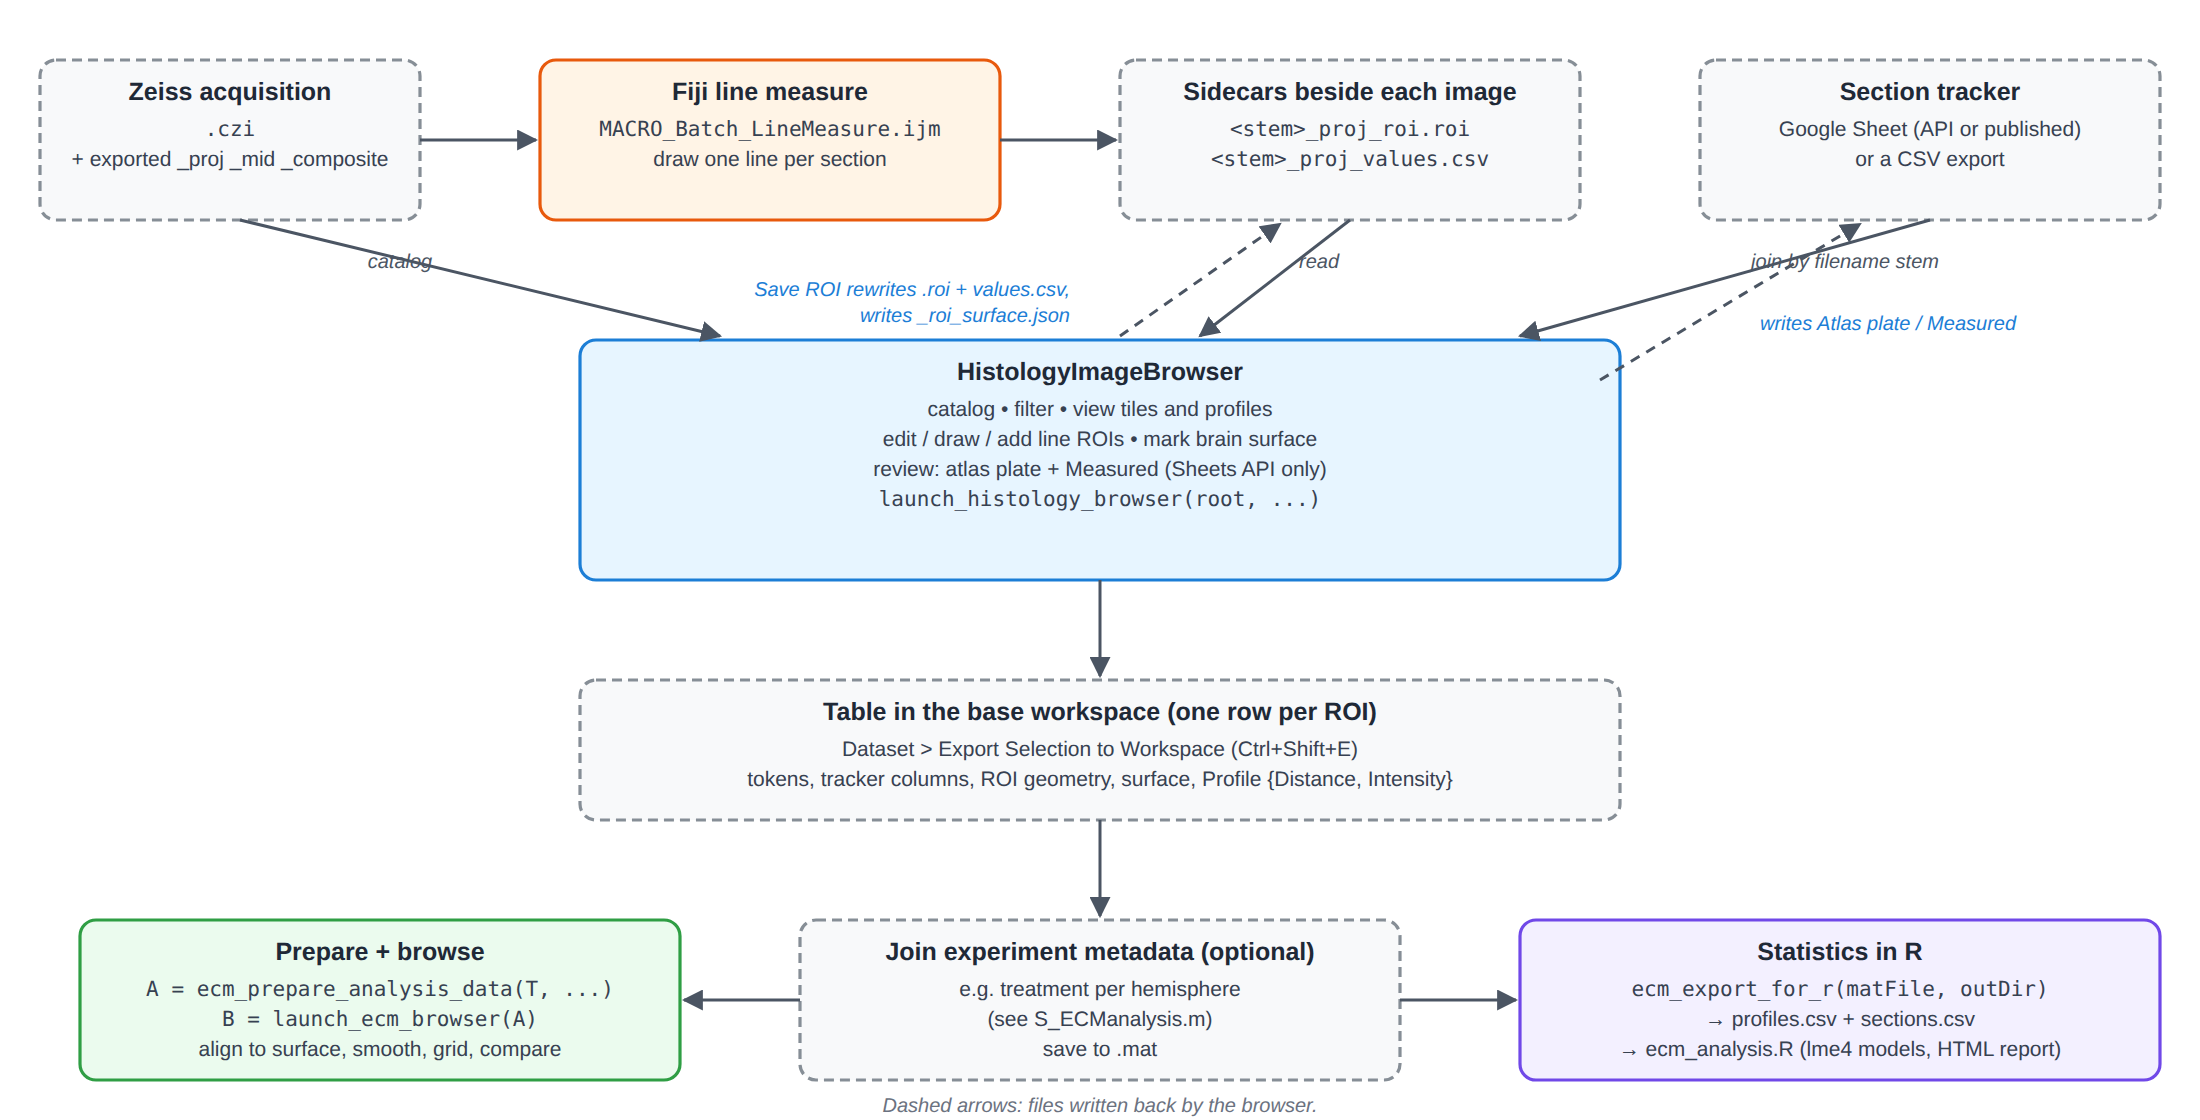
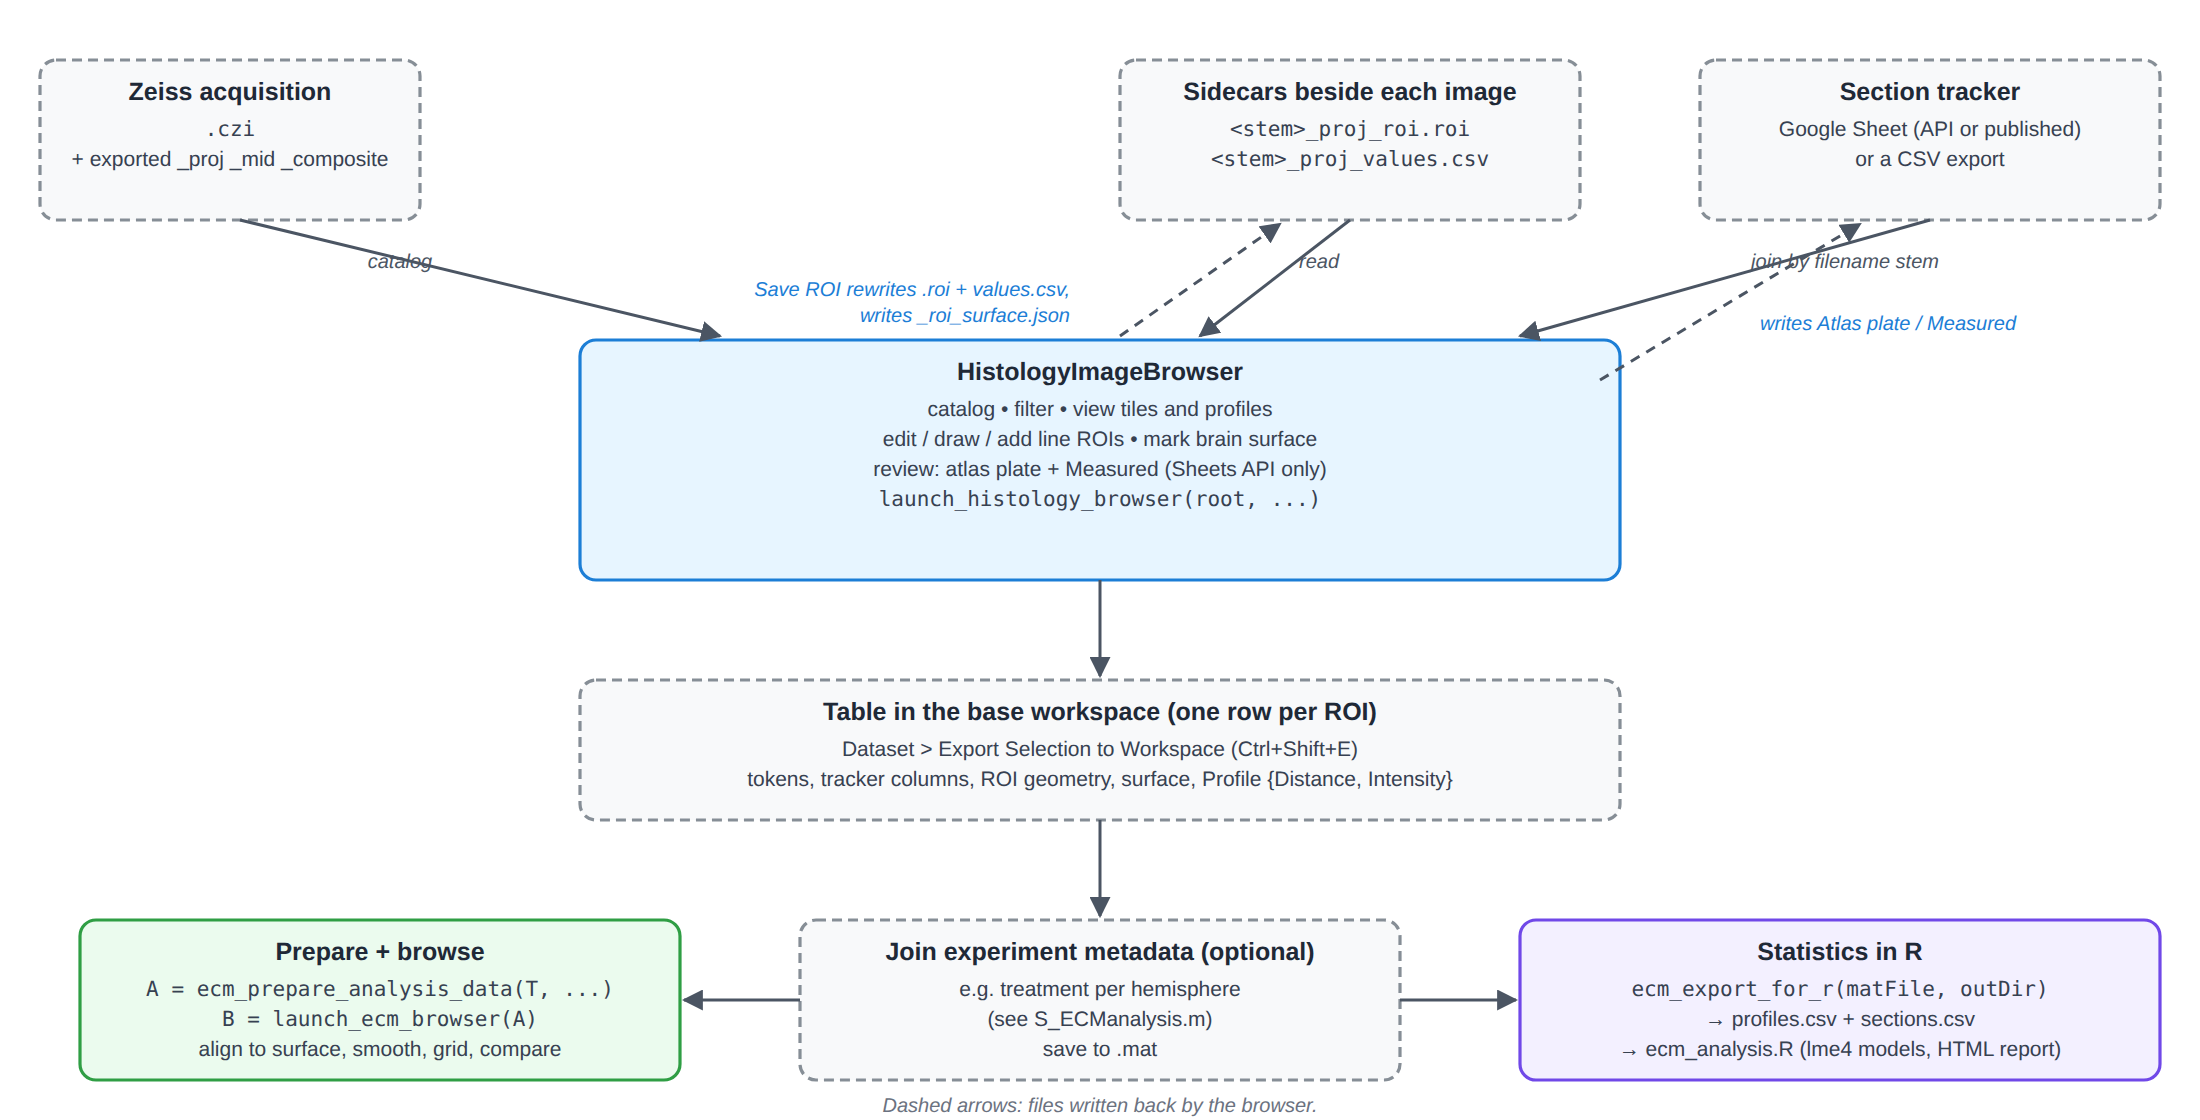
Remove Fiji macro preprocessing from the wiki
Drop the MACRO_Batch_LineMeasure.ijm section, recipe steps, requirement
row and toolbox entry, the runImageJMacro docs, and the Fiji box in the
pipeline diagram. Line ROIs are now described as drawn in the browser.

Claude-Session: https://claude.ai/code/session_014p3gpCibtE2v8YAGh1YsFA

Changed region(s): [[0.2164, 0.0312, 0.4636, 0.2188]]

diff --git a/docs/wiki/images/src/pipeline.js b/docs/wiki/images/src/pipeline.js
@@ -5,7 +5,7 @@ const W = 1100, H = 560;
 out.push(`<svg xmlns="http://www.w3.org/2000/svg" viewBox="0 0 ${W} ${H}" width="${W}" height="${H}" font-family="Segoe UI, Helvetica, Arial, sans-serif">`);
 out.push(`<defs><marker id="a" viewBox="0 0 10 10" refX="9" refY="5" markerWidth="7" markerHeight="7" orient="auto"><path d="M0 0 L10 5 L0 10 z" fill="#4b5563"/></marker></defs>`);
 out.push(`<rect width="${W}" height="${H}" fill="#ffffff"/>`);
-const pal = { fiji: ['#fff4e6', '#e8590c'], browser: ['#e7f5ff', '#1c7ed6'], ecm: ['#ebfbee', '#2f9e44'], data: ['#f8f9fa', '#868e96'], r: ['#f3f0ff', '#7048e8'] };
+const pal = { browser: ['#e7f5ff', '#1c7ed6'], ecm: ['#ebfbee', '#2f9e44'], data: ['#f8f9fa', '#868e96'], r: ['#f3f0ff', '#7048e8'] };
 const box = (x, y, w, h, kind, title, lines) => {
   const [f, s] = pal[kind];
   out.push(`<rect x="${x}" y="${y}" width="${w}" height="${h}" rx="8" fill="${f}" stroke="${s}" stroke-width="1.6"${kind === 'data' ? ' stroke-dasharray="5 3"' : ''}/>`);
@@ -18,10 +18,8 @@ const arrow = (x1, y1, x2, y2, label, o = {}) => {
 };
 // Row 1
 box(20, 30, 190, 80, 'data', 'Zeiss acquisition', ['`.czi`', '+ exported `_proj` `_mid` `_composite`']);
-box(270, 30, 230, 80, 'fiji', 'Fiji line measure', ['`MACRO_Batch_LineMeasure.ijm`', 'draw one line per section']);
 box(560, 30, 230, 80, 'data', 'Sidecars beside each image', ['`<stem>_proj_roi.roi`', '`<stem>_proj_values.csv`']);
 box(850, 30, 230, 80, 'data', 'Section tracker', ['Google Sheet (API or published)', 'or a CSV export']);
-arrow(210, 70, 268, 70); arrow(500, 70, 558, 70);
 // Row 2 browser
 box(290, 170, 520, 120, 'browser', 'HistologyImageBrowser', ['catalog • filter • view tiles and profiles', 'edit / draw / add line ROIs • mark brain surface', 'review: atlas plate + Measured (Sheets API only)', '`launch_histology_browser(root, ...)`']);
 arrow(675, 110, 600, 168, 'read', { dx: 22 });

diff --git a/docs/wiki/Data-Layout-and-File-Formats.md b/docs/wiki/Data-Layout-and-File-Formats.md
@@ -13,8 +13,8 @@ For each acquisition, the browser recognizes:
 | `<stem>_proj.tif` | your export | Projection. This is the default rendition and the one profiles are measured from. |
 | `<stem>_mid.tif` | your export | Mid-plane rendition (optional). |
 | `<stem>_composite.png` | your export | Composite rendition (optional). |
-| `<stem>_proj_roi.roi` | Fiji macro or browser | The line ROI, in ImageJ's binary `.roi` format. |
-| `<stem>_proj_values.csv` | Fiji macro or browser | The intensity profile measured along that line. |
+| `<stem>_proj_roi.roi` | browser | The line ROI, in ImageJ's binary `.roi` format. |
+| `<stem>_proj_values.csv` | browser | The intensity profile measured along that line. |
 | `<stem>_proj_roi_surface.json` | browser | Where the brain surface sits on that line (optional). |
 
 Any of the three exported renditions can be `.tif`, `.tiff` or `.png`; the scan looks for all
@@ -80,8 +80,7 @@ tokens become catalog columns: `SubjectID`, `SampleID`, `SectionID`, `Hemisphere
 previewed, but not cataloged.
 
 The `_proj`, `_mid`, `_composite`, `_roi` and `_values` suffixes are stripped before your pattern
-runs, and you can't change them. The Fiji macro writes them, and rendition discovery depends on
-them.
+runs, and you can't change them. Rendition discovery depends on them.
 
 From a script:
 
@@ -105,10 +104,9 @@ tied together by a label in their filenames:
   unchanged.
 - **Keys are letters.** To give them meaningful names (A = `ACx`, B = `S1`), use **Name ROIs...**
   in the browser. Names are stored as a MATLAB preference, so no file is renamed.
-- **Mismatched macro names are paired automatically.** When the macro runs with a region-specific
-  suffix, it writes `_proj_roi.roi` beside `_proj_ACxvalues.csv`. An unlabelled `.roi` that has
-  no profile of its own is paired with a profile that has no `.roi` of its own. So that section
-  reads as one ROI keyed `ACx`.
+- **Mismatched names are paired automatically.** An unlabelled `.roi` that has no profile of its
+  own is paired with a profile that has no `.roi` of its own. So `_proj_roi.roi` beside
+  `_proj_ACxvalues.csv` reads as one ROI keyed `ACx`.
 
 ## `*values.csv`: the profile
 
@@ -118,9 +116,8 @@ distance_pixel_index,intensity
 ...
 ```
 
-This is one row per sample along the line. In files written by the Fiji macro, the first column
-is in **calibrated units** (µm) when the image is calibrated, despite its name.
-The browser's `write_values_csv` writes the same header.
+This is one row per sample along the line. The first column is in **calibrated units** (µm) when
+the image is calibrated, despite its name. The browser's `write_values_csv` writes this header.
 
 ## `*_roi_surface.json`: the brain surface mark
 
@@ -143,34 +140,6 @@ This file is written by the browser when you **Save ROI** with a surface mark on
 - Clearing a mark **deletes** the file rather than writing an empty one.
 
 *(The numeric values above are placeholders showing the shape of the file.)*
-
-## The Fiji macro
-
-`histology_browser/fiji/MACRO_Batch_LineMeasure.ijm` runs in Fiji, not MATLAB. Open it in Fiji
-(**Plugins > Macros > Run...**) and it will:
-
-1. **Ask for the parent directory.** Fiji remembers the last one.
-2. **Ask for the file pattern.** The default is `*_proj.tif`. Matching is recursive and
-   case-insensitive.
-3. **Ask for the line width in µm.** The default is `994`. For uncalibrated images the number is
-   used as pixels, with a warning.
-4. **Ask for the values file suffix.** The default is `_values`.
-5. **Ask whether to skip images whose values CSV already exists.**
-
-Then, for each image:
-
-1. It opens the image and selects channel 1.
-2. It asks **"Process this file?"**. Answer No to skip.
-3. It waits while you **draw a straight line** across cortex, then click **OK**.
-4. It writes `<image base>_roi.roi` and `<image base><suffix>.csv` beside the image, then closes
-   all images.
-
-Things to know:
-
-- **It writes one ROI per image.** Add further ROIs (B, C, …) in the browser with **Add ROI**.
-- **It closes every open image** (`close("*")`) after each file, including unrelated ones.
-- **It needs you at the keyboard.** It uses dialogs, so it can't run headless, and
-  `runImageJMacro` can't drive it.
 
 ## The section tracker
 

diff --git a/docs/wiki/Home.md b/docs/wiki/Home.md
@@ -10,12 +10,11 @@ ECM staining across experimental groups. R handles the statistics.
 
 | Component | What it's for | Start here |
 |---|---|---|
-| **Histology Image Browser** | Catalog every section image under a folder. Filter by subject, hemisphere, stain and atlas plate. See each section with its Fiji line ROI and intensity profile. Edit ROIs, mark the brain surface, and record review status in the section tracker. | [Histology Browser](Histology-Browser) |
+| **Histology Image Browser** | Catalog every section image under a folder. Filter by subject, hemisphere, stain and atlas plate. See each section with its line ROI and intensity profile. Edit ROIs, mark the brain surface, and record review status in the section tracker. | [Histology Browser](Histology-Browser) |
 | **Section tracker** | The browser joins your lab's section tracker (a Google Sheet or a CSV) onto the catalog. It can also write the atlas plate and "Measured" back to the tracker. | [Section Tracker](Section-Tracker) |
 | **ECM Analysis app** | Take the exported profiles and align them to the cortical surface. Then smooth, normalize, tile, filter and compare groups interactively, and export figures, data and reproducible code. | [ECM Analysis](ECM-Analysis) |
 | **R statistics** | `ecm_analysis.R` fits mixed-effects models to the exported profiles and writes an HTML report. | [ECM Analysis § Statistics in R](ECM-Analysis#statistics-in-r) |
 | **Image tools** | Standalone utilities: CZI metadata extraction, interactive rotation, overlay and threshold tools, cortex straightening, and a crop labeller. | [Image Processing Tools](Image-Processing-Tools) |
-| **Fiji macro** | `MACRO_Batch_LineMeasure.ijm` walks a folder of images. You draw a line on each section and it saves the ROI and its profile. | [Data Layout § The Fiji macro](Data-Layout-and-File-Formats#the-fiji-macro) |
 
 ## Where to go next
 
@@ -31,18 +30,16 @@ ECM staining across experimental groups. R handles the statistics.
 
 1. **Acquire and export.** Each section is imaged (Zeiss `.czi`). Projections (`_proj.tif`) and
    optional mid-plane (`_mid`) and composite (`_composite`) renditions are exported beside it.
-2. **Measure in Fiji.** Run `MACRO_Batch_LineMeasure.ijm` over the folder. On each image you draw
-   one line across cortex. It writes `<image>_roi.roi` and `<image>_values.csv` next to the image.
-3. **Review in MATLAB.** `launch_histology_browser("D:/MyHistology/", ...)` catalogs everything
-   and joins it with the section tracker. Here you can:
+2. **Measure and review in MATLAB.** `launch_histology_browser("D:/MyHistology/", ...)` catalogs
+   everything and joins it with the section tracker. Here you can:
+   - draw, redraw or add line ROIs;
    - check each line;
-   - redraw or add ROIs;
    - mark the brain surface;
    - set the atlas plate;
    - tick sections off as measured.
-4. **Export.** Select sections and choose **Dataset > Export Selection to Workspace**. You get
+3. **Export.** Select sections and choose **Dataset > Export Selection to Workspace**. You get
    a table with one row per ROI, and each row carries its profile.
-5. **Analyze.** Run `ecm_prepare_analysis_data` and then `launch_ecm_browser` to explore
+4. **Analyze.** Run `ecm_prepare_analysis_data` and then `launch_ecm_browser` to explore
    interactively. Or run `ecm_export_for_r` and then `ecm_analysis.R` for the statistics.
 
 ## About the pictures in this wiki

diff --git a/docs/wiki/Recipes.md b/docs/wiki/Recipes.md
@@ -5,7 +5,7 @@ Step-by-step instructions for common tasks. Each recipe assumes the repository i
 
 **Browsing and reviewing**
 - [Try everything without real data](#try-everything-without-real-data)
-- [Measure a new batch in Fiji and review it](#measure-a-new-batch-in-fiji-and-review-it)
+- [Measure a new batch and review it](#measure-a-new-batch-and-review-it)
 - [Compare profiles for one stain across a subject's sections](#compare-profiles-for-one-stain-across-a-subjects-sections)
 - [Fix a badly drawn line](#fix-a-badly-drawn-line)
 - [Measure a second region on the same section](#measure-a-second-region-on-the-same-section)
@@ -43,25 +43,18 @@ experiment freely.
 
 ---
 
-## Measure a new batch in Fiji and review it
+## Measure a new batch and review it
 
 1. **Export projections.** Make sure each section has a `<stem>_proj.tif` in the data folder.
-2. **Run the macro in Fiji.** Open Fiji and choose **Plugins > Macros > Run...**, then pick
-   `histology_browser/fiji/MACRO_Batch_LineMeasure.ijm`. Then:
-   1. Choose the folder, and keep the `*_proj.tif` pattern.
-   2. Set the line width in µm and the values suffix.
-   3. Answer **Yes** to *skip files whose values CSV already exists*. Only new images will be
-      shown.
-   4. For each image, draw one straight line from outside the brain inward across cortex, and
-      click **OK**.
-
-   > **Close unrelated images first.** The macro closes all open images after each file.
-3. **Open the browser on the folder:**
+2. **Open the browser on the folder:**
    ```matlab
    launch_histology_browser("D:/MyHistology/", metadataCSV = "D:/MyHistology/Trackers - Sections.csv")
    ```
-4. **Review each line.** Set **Sort by** to `Status` and step through with **Ctrl+Down**. For each
-   section:
+3. **Draw a line on each section.** Set **Sort by** to `Status` and step through with
+   **Ctrl+Down**. On a section with no line yet, press **Ctrl+E** (Edit ROI); a new line is
+   placed across the image. Drag it into place, or draw it with **Ctrl+D**, then press
+   **Ctrl+S** (Save ROI).
+4. **Review each line.** For each section:
    - check that the line crosses the region you meant;
    - check the **surface (auto)** tick, if you've run **Detect**.
 

diff --git a/docs/wiki/Getting-Started.md b/docs/wiki/Getting-Started.md
@@ -34,13 +34,12 @@ the folder that *contains* `@HistologyImageBrowser`, not the class folder itself
 | Image Processing Toolbox | Drawing and dragging ROIs, placing the brain surface mark, display downsampling in the browser; most of the [Image Processing Tools](Image-Processing-Tools) | Without it, the browser still opens, catalogs, displays and plots. Only ROI drawing and editing and surface placement are disabled. |
 | [Bio-Formats for MATLAB](https://www.openmicroscopy.org/bio-formats/downloads/) (`bfmatlab`) | Showing raw `.czi` in the browser; `extract_czi_metadata`, `parseBfTiff`, `straighten_cortex*` | Optional for the browser. It finds `bfmatlab` automatically in any of these places: on the path, inside or beside this checkout, in `userpath`, or at the folder named by the `BFMATLAB_PATH` environment variable. |
 | Statistics and Machine Learning Toolbox | The ECM app's **bootstrap 95%** error band | Optional. Without it that band is silently left out. |
-| Fiji / ImageJ | Running `MACRO_Batch_LineMeasure.ijm` | Measuring happens in Fiji, not MATLAB. |
 | R, with `readr dplyr tidyr ggplot2 scales lme4 lmerTest emmeans` | `ECM_Analysis/ecm_analysis.R` | `splines` ships with base R. The script stops with an `install.packages(...)` line if anything is missing. |
 
 ## 4. Five-minute tour, no data needed
 
 The browser's test suite includes a generator for a small **synthetic dataset**: two subjects,
-both hemispheres, two stains, plates 28–46, calibrated projections with Fiji ROI and profile
+both hemispheres, two stains, plates 28–46, calibrated projections with ROI and profile
 sidecars, and a section tracker CSV. Three sections are deliberately unfinished. It is
 deterministic and about 220 KB.
 
@@ -81,7 +80,7 @@ launch_histology_browser("D:/GM6001_HISTOLOGY/", ...
     metadataCSV = "D:/GM6001_HISTOLOGY/Trackers - Sections.csv")
 ```
 
-The browser expects the folder layout that the Fiji macro produces; see
+For the folder layout the browser expects, see
 [Data Layout and File Formats](Data-Layout-and-File-Formats). For the Google Sheet options, see
 [Section Tracker](Section-Tracker).
 

diff --git a/docs/wiki/Image-Processing-Tools.md b/docs/wiki/Image-Processing-Tools.md
@@ -23,7 +23,6 @@ browser and are independent of it.
 | [`parabola_offset`](#parabola_offset) | function | Curve Fitting Toolbox | Offset curves parallel to a fitted polynomial |
 | [`straighten_cortex`, `straighten_cortex2`](#straighten_cortex-and-straighten_cortex2) | pipelines | many; see below | Older interactive cortex straightening pipelines |
 | [`parseBfTiff`](#parsebftiff) | function | Bio-Formats | Read an OME-TIFF's planes and metadata |
-| [`runImageJMacro`](#runimagejmacro) | function | Fiji | Run a headless Fiji macro |
 | `addpath_nogit` | function | — | Add a folder tree to the path, skipping `.git` |
 
 IPT = Image Processing Toolbox.
@@ -233,13 +232,3 @@ for known issues.
 
 Note the output order: `xy_res` is **third** and `nChannels` fourth. The function's help text
 lists them the other way round. Every plane (Z × C × T) is counted as a channel.
-
-## runImageJMacro
-
-```matlab
-[status, out] = runImageJMacro("C:/Fiji.app/ImageJ-win64.exe", "macro.ijm", "in.tif", "D:/out");
-```
-
-This runs Fiji headless with `input=` and `output=` parameters, and raises
-`runImageJMacro:ImageJFailed` on a non-zero exit. The macro must declare `input` and `output`
-script parameters, so this **can't** run `MACRO_Batch_LineMeasure.ijm`, which is interactive.

diff --git a/docs/wiki/Troubleshooting-and-FAQ.md b/docs/wiki/Troubleshooting-and-FAQ.md
@@ -133,9 +133,6 @@ These are documented here so they don't surprise you. They are all confirmed in 
     read unset.
 - **`histologyLabeller`**: the `contrastLim` property and its Shift-key adjustments have no
   visible effect, because the line applying it is commented out.
-- **`runImageJMacro`**: the `input=...,output=...` argument contains double quotes and is
-  itself wrapped in double quotes on the command line. Test it with your paths before relying
-  on it.
 - **`addpath_nogit`**: it skips any folder whose path contains `.git`, including `.github`.
 
 ## Reporting a problem

diff --git a/docs/wiki/Histology-Browser.md b/docs/wiki/Histology-Browser.md
@@ -1,7 +1,7 @@
 # Histology Browser
 
 `HistologyImageBrowser` catalogs every section image under a root folder. It shows each section
-with its Fiji line ROIs and their intensity profiles, and lets you correct ROIs, mark the brain
+with its line ROIs and their intensity profiles, and lets you correct ROIs, mark the brain
 surface, and record review status.
 
 ```matlab
